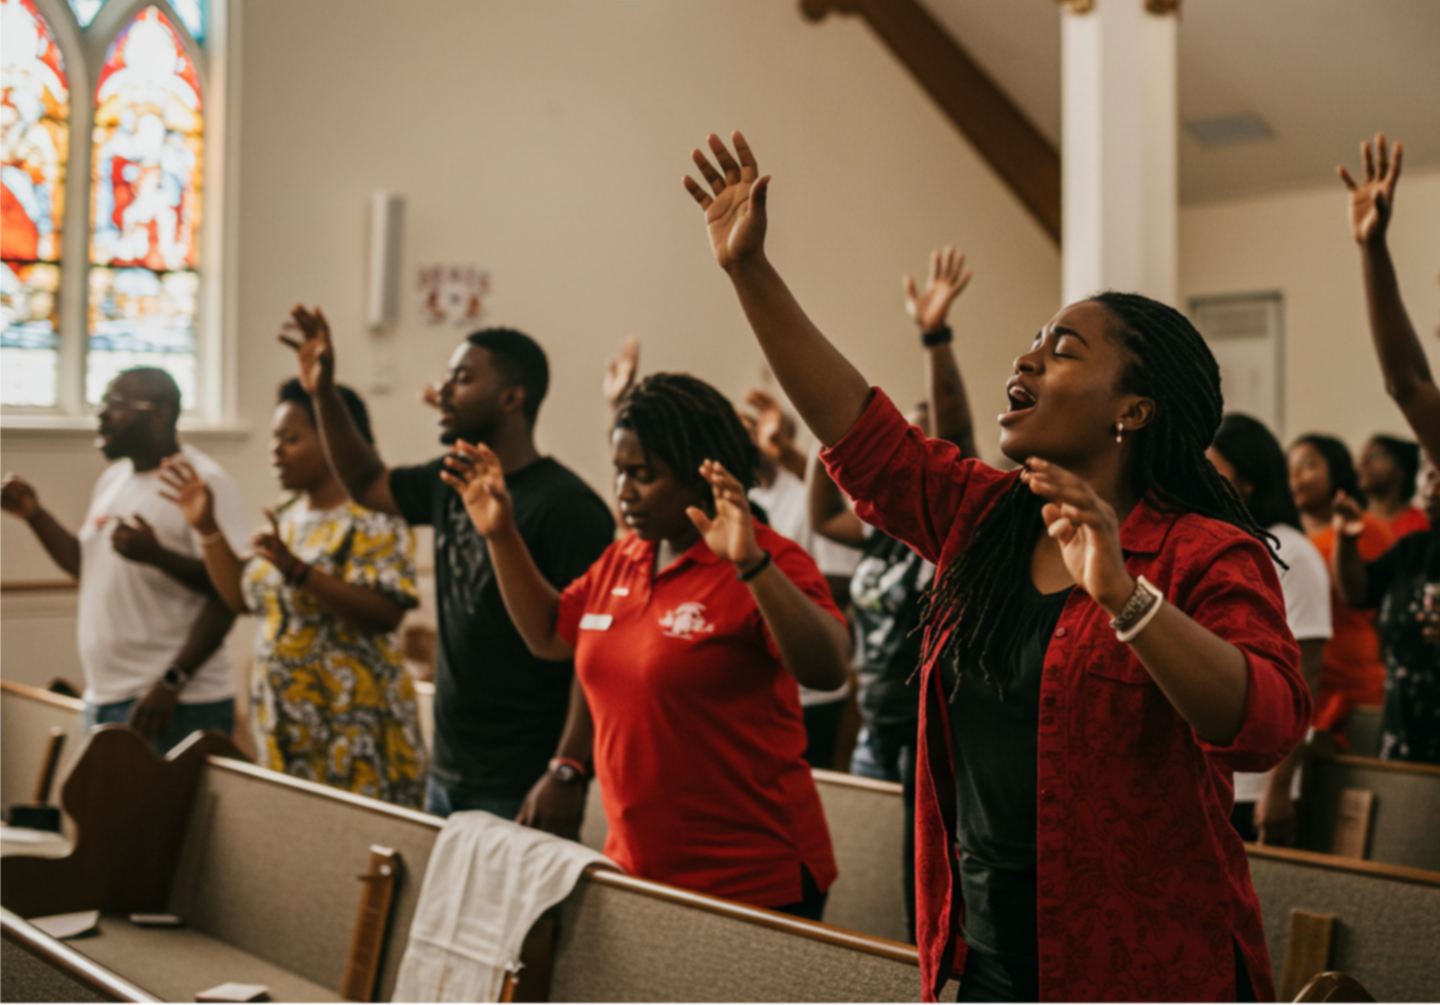
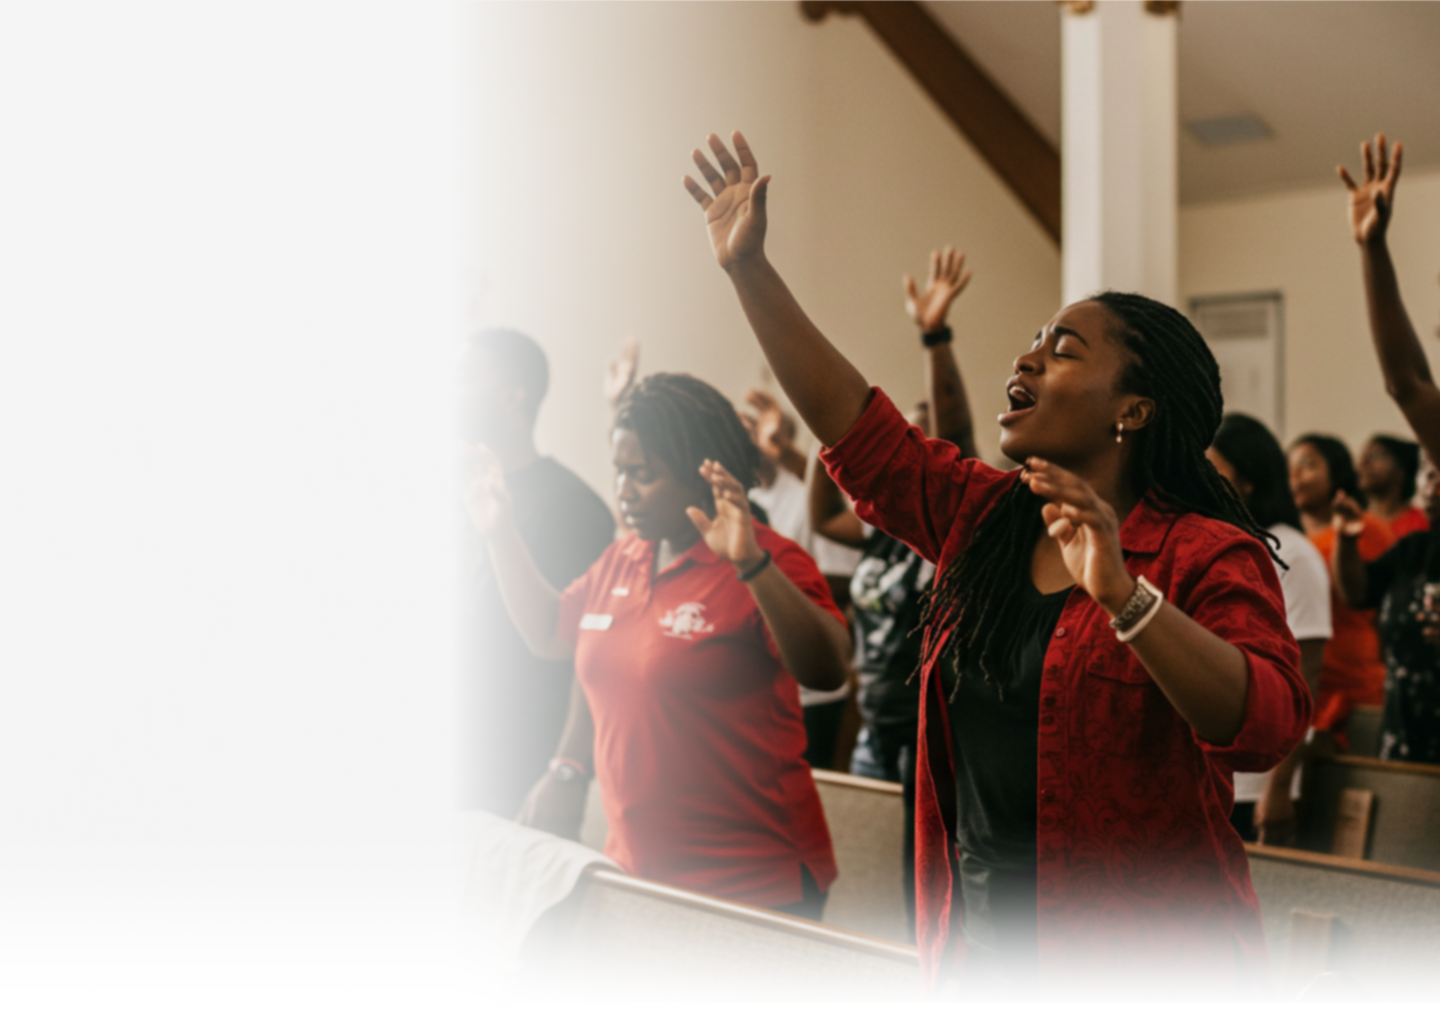
implement ai generated code for testimonial and foooter

diff --git a/app/(main)/_components/footer.tsx b/app/(main)/_components/footer.tsx
@@ -1,0 +1,117 @@
+'use client';
+
+export default function Footer() {
+  return (
+    <footer className='bg-gray-50 text-gray-700'>
+      <div className='container mx-auto px-6 py-12'>
+        {/* Footer Sections */}
+        <div className='grid grid-cols-1 md:grid-cols-3 gap-8 text-left'>
+          {/* Organization Section */}
+          <div>
+            <h5 className='font-bold text-lg'>Organization</h5>
+            <ul className='mt-4 space-y-2'>
+              <li>
+                <a href='#' className='hover:text-red-600'>
+                  Contact Us
+                </a>
+              </li>
+              <li>
+                <a href='#' className='hover:text-red-600'>
+                  Donations
+                </a>
+              </li>
+              <li>
+                <a href='#' className='hover:text-red-600'>
+                  Blog & News
+                </a>
+              </li>
+            </ul>
+          </div>
+
+          {/* Resources Section */}
+          <div>
+            <h5 className='font-bold text-lg'>Resources</h5>
+            <ul className='mt-4 space-y-2'>
+              <li>
+                <a href='#' className='hover:text-red-600'>
+                  Documentation
+                </a>
+              </li>
+              <li>
+                <a href='#' className='hover:text-red-600'>
+                  Papers
+                </a>
+              </li>
+              <li>
+                <a href='#' className='hover:text-red-600'>
+                  Guidelines
+                </a>
+              </li>
+            </ul>
+          </div>
+
+          {/* Legal Section */}
+          <div>
+            <h5 className='font-bold text-lg'>Legal</h5>
+            <ul className='mt-4 space-y-2'>
+              <li>
+                <a href='#' className='hover:text-red-600'>
+                  Terms of Service
+                </a>
+              </li>
+              <li>
+                <a href='#' className='hover:text-red-600'>
+                  Privacy Policy
+                </a>
+              </li>
+              <li>
+                <a href='#' className='hover:text-red-600'>
+                  Cookies Policy
+                </a>
+              </li>
+            </ul>
+          </div>
+        </div>
+
+        {/* Newsletter and Social Media */}
+        <div className='mt-12 flex flex-col lg:flex-row lg:justify-between items-center'>
+          {/* Newsletter Section */}
+          <div className='flex items-center w-full lg:w-auto'>
+            <input
+              type='email'
+              placeholder='Enter your email'
+              className='flex-grow px-4 py-2 border border-gray-300 rounded-l-full text-sm focus:outline-none'
+            />
+            <button className='bg-red-600 text-white px-6 py-2 rounded-r-full text-sm hover:bg-red-700'>
+              Send
+            </button>
+          </div>
+          <p className='text-gray-500 text-sm mt-4 lg:mt-0 lg:ml-4'>
+            Join the Newsletter
+          </p>
+        </div>
+
+        {/* Social Media Links */}
+        <div className='mt-8 flex justify-center lg:justify-end space-x-4'>
+          <a href='#' className='text-gray-500 hover:text-red-600'>
+            <i className='fab fa-facebook-f'></i>
+          </a>
+          <a href='#' className='text-gray-500 hover:text-red-600'>
+            <i className='fab fa-youtube'></i>
+          </a>
+          <a href='#' className='text-gray-500 hover:text-red-600'>
+            <i className='fab fa-instagram'></i>
+          </a>
+          <a href='#' className='text-gray-500 hover:text-red-600'>
+            <i className='fab fa-twitter'></i>
+          </a>
+        </div>
+
+        {/* Footer Bottom */}
+        <div className='mt-12 border-t border-gray-200 pt-6 text-center text-sm text-gray-500'>
+          <span>© Christ Victorious Armies, 2024. All rights reserved</span>
+        </div>
+      </div>
+    </footer>
+  );
+}

diff --git a/app/(main)/_components/testimonies.tsx b/app/(main)/_components/testimonies.tsx
@@ -1,0 +1,66 @@
+'use client';
+
+export default function Testimonies() {
+  const testimonies = [
+    {
+      name: 'Gbemi',
+      title: 'CVA: A Place for Every Lover of Christ',
+      image: '/images/gbemi.jpg', // Replace with actual image path
+      text: `Joining CVA has been greatly transformative for me. I have grown spiritually. Here, I am encouraged to actively practice all that’s been preached, and I have been equipped through the teachings, books, and other valuable resources provided. I am glad to be part of a community that’s keen on making Jesus known to all mankind. This community teaches and practices the love of Christ, and you can experience this through the way each member looks out for one another. I am blessed to have amazing sisters and brothers in Christ. CVA is truly a place every lover of Christ should be.`,
+    },
+    {
+      name: 'Victoria',
+      title: 'CVA: A Life-Changing Community',
+      image: '/images/victoria.jpg', // Replace with actual image path
+      text: `Becoming a member of CVA has been an immense blessing. Being embraced by this community has instilled in me a commitment to God and deepened my comprehension of his plans and how to effectively carry them out.`,
+    },
+    {
+      name: 'Oluwaseun',
+      title: 'CVA: A Transformative Journey',
+      image: '/images/oluwaseun.jpg', // Replace with actual image path
+      text: `CVA has been a transformative experience for me. From the moment I joined this group 2 years ago, I felt embraced by a community of believers who genuinely care about each other's spiritual growth. The discussions we have during our meetings are thought-provoking and filled with deep insights, allowing me to gain a fresh perspective on the Scriptures. The teacher God uses in our meetings exemplifies servant-hearted leadership, providing guidance and encouragement as we navigate our faith journeys together.`,
+    },
+  ];
+
+  return (
+    <section className='bg-gray-50 py-16'>
+      <div className='container mx-auto px-6 lg:px-16 text-center'>
+        {/* Heading */}
+        <h2 className='text-3xl font-bold text-gray-900'>Testimonies</h2>
+        <p className='mt-4 text-gray-600'>
+          Discover inspiring stories of transformed lives and unshaken faith.
+          These heartfelt testimonies reflect God’s grace, the power of His
+          Word, and the impact of our Christ-centered community.
+        </p>
+
+        {/* Testimonies Cards */}
+        <div className='mt-12 grid grid-cols-1 lg:grid-cols-3 gap-8'>
+          {testimonies.map((testimony, index) => (
+            <div
+              key={index}
+              className='bg-white rounded-lg shadow-md p-6 flex flex-col items-center text-left'
+            >
+              <img
+                src={testimony.image}
+                alt={testimony.name}
+                className='w-16 h-16 rounded-full object-cover mb-4'
+              />
+              <h3 className='text-lg font-bold'>{testimony.name}</h3>
+              <p className='text-sm text-gray-500 mb-4'>{testimony.title}</p>
+              <p className='text-gray-600 text-sm leading-relaxed'>
+                {testimony.text}
+              </p>
+            </div>
+          ))}
+        </div>
+
+        {/* Pagination Dots */}
+        <div className='flex justify-center items-center mt-8 space-x-2'>
+          <span className='w-3 h-3 bg-yellow-500 rounded-full'></span>
+          <span className='w-3 h-3 bg-gray-300 rounded-full'></span>
+          <span className='w-3 h-3 bg-gray-300 rounded-full'></span>
+        </div>
+      </div>
+    </section>
+  );
+}

diff --git a/app/(main)/page.tsx b/app/(main)/page.tsx
@@ -1,6 +1,7 @@
 import HeroSection from '@/app/(main)/_components/hero-section';
 import WhoWeAreSection from '@/app/(main)/_components/who-we-are-section';
 import OurProgramsSection from './_components/our-programs-section';
+import Testimonies from './_components/testimonies';
 
 export default function Home() {
   return (
@@ -8,6 +9,7 @@ export default function Home() {
       <HeroSection />
       <WhoWeAreSection />
       <OurProgramsSection />
+      <Testimonies />
     </main>
   );
 }

diff --git a/app/(main)/_components/hero-section.tsx b/app/(main)/_components/hero-section.tsx
@@ -53,7 +53,7 @@ export default function HeroSection() {
       </div>
 
       {/* Content Section */}
-      <div className='relative bg-gradient-to-r from-white to-transparent py-40 px-8 md:py-60 md:px-16 lg:px-32 flex flex-col justify-center'>
+      <div className='relative py-40 px-8 md:py-60 md:px-16 lg:px-32 flex flex-col justify-center'>
         <h1
           className={`text-3xl md:text-6xl font-bold text-gray-900 ${playfairDisplay.className}`}
         >

diff --git a/app/(main)/layout.tsx b/app/(main)/layout.tsx
@@ -1,4 +1,5 @@
 import Navbar from '@/app/(main)/_components/navbar';
+import Footer from './_components/footer';
 
 export default function MainLayout({
   children,
@@ -9,6 +10,7 @@ export default function MainLayout({
     <div>
       <Navbar />
       {children}
+      <Footer />
     </div>
   );
 }
